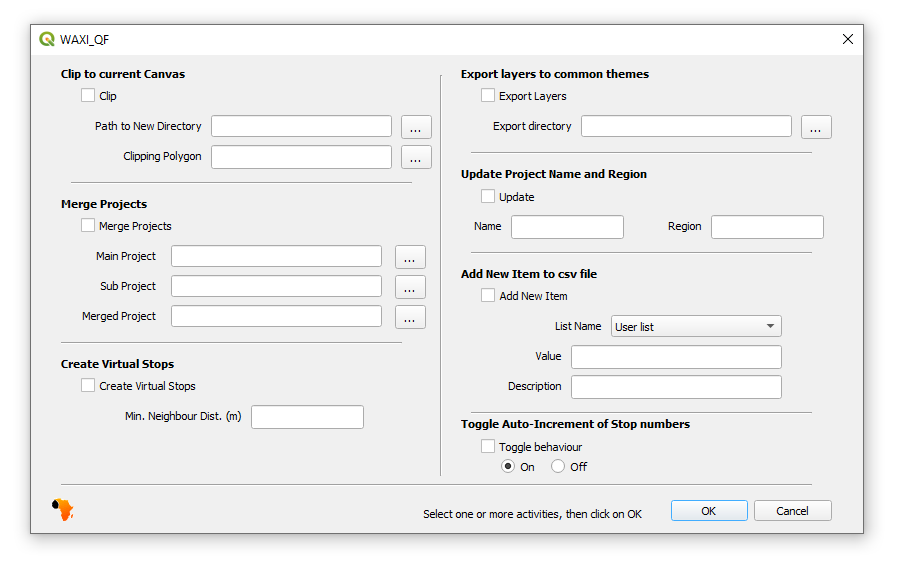
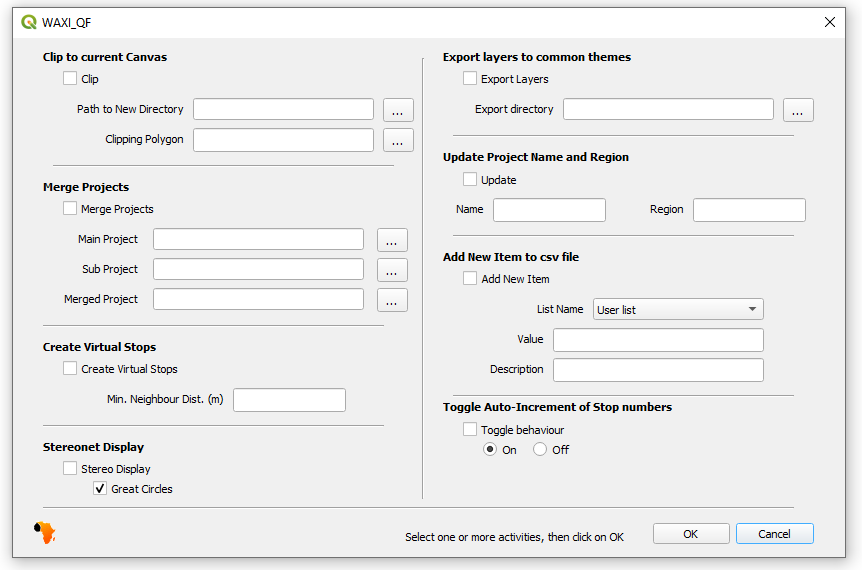
Add Stereonet control

Changed region(s): [[0.0, 0.0, 0.9954, 1.0]]

diff --git a/WAXI_QF.py b/WAXI_QF.py
@@ -368,54 +368,57 @@ class WAXI_QF:
         Inches 	9        Inches (since QGIS 3.32)
         SIP_MONKEYPATCH_COMPAT_NAME 10        Unknown distance unit.
         """
-        X=np.array(points)
-        X[0]=(X[0]-X[:,0].mean())/X[:,0].std()
-        X[1]=(X[1]-X[:,1].mean())/X[:,1].std()
-        #X = StandardScaler().fit_transform(X)
+        if(len(points)>0):
+            X=np.array(points)
+            X[0]=(X[0]-X[:,0].mean())/X[:,0].std()
+            X[1]=(X[1]-X[:,1].mean())/X[:,1].std()
+            #X = StandardScaler().fit_transform(X)
 
 
-        clusters = scanner.fit_predict(X)
-        #print(clusters)
-        
+            clusters = scanner.fit_predict(X)
+            #print(clusters)
+            
 
-        merged_layers.startEditing()
-        if merged_layers.dataProvider().fieldNameIndex("v_stop") == -1:
-            merged_layers.dataProvider().addAttributes([QgsField("v_stop", QVariant.String)])
-            merged_layers.updateFields()
+            merged_layers.startEditing()
+            if merged_layers.dataProvider().fieldNameIndex("v_stop") == -1:
+                merged_layers.dataProvider().addAttributes([QgsField("v_stop", QVariant.String)])
+                merged_layers.updateFields()
 
-        id_new_col= merged_layers.dataProvider().fieldNameIndex("v_stop")
+            id_new_col= merged_layers.dataProvider().fieldNameIndex("v_stop")
 
-        for i,feature in enumerate(merged_layers.getFeatures()):
-            if(clusters[i]>0):
-                merged_layers.changeAttributeValue(feature.id(), id_new_col, str(clusters[i]))
+            for i,feature in enumerate(merged_layers.getFeatures()):
+                if(clusters[i]>0):
+                    merged_layers.changeAttributeValue(feature.id(), id_new_col, str(clusters[i]))
 
-        merged_layers.commitChanges()
-        if not merged_layers.isValid():
-            print("Layer failed to build!")
-        else:
-            QgsProject.instance().addMapLayer(merged_layers,False)
-            options = QgsVectorFileWriter.SaveVectorOptions()
-            options.driverName = "ESRI Shapefile"
-            #options.actionOnExistingFile = QgsVectorFileWriter.CreateOrOverwriteLayer
-            options.fileEncoding="UTF8"
-
-            output_path = QgsProject.instance().readPath("./")
-            virtual_path = self.mynormpath(output_path+"/0. FIELD DATA/0. CURRENT MISSION/0. STOPS-SAMPLING-PHOTOGRAPHS-COMMENTS/Virtual_Stops_"+datetime.now().strftime('%d-%b-%Y_%H_%M_%S')+".shp" ) # Path to clip rectangle in memory
-            writer = QgsVectorFileWriter.writeAsVectorFormatV3 (merged_layers,virtual_path, QgsProject.instance().transformContext(), options )
-
-            if writer[0] != QgsVectorFileWriter.NoError:
-                print("Error occurred while creating shapefile:", writer.errorMessage())
-            """
+            merged_layers.commitChanges()
+            if not merged_layers.isValid():
+                print("Layer failed to build!")
             else:
-                # Write features to the shapefile
-                for feature in layer.getFeatures():
-                    writer.addFeature(feature)
+                QgsProject.instance().addMapLayer(merged_layers,False)
+                options = QgsVectorFileWriter.SaveVectorOptions()
+                options.driverName = "ESRI Shapefile"
+                #options.actionOnExistingFile = QgsVectorFileWriter.CreateOrOverwriteLayer
+                options.fileEncoding="UTF8"
 
-                # Finish writing and close the shapefile
-            """
-            del writer
-            self.iface.addVectorLayer(virtual_path, '', 'ogr')
-            self.iface.messageBar().pushMessage("Virtual Stop layer created", level=Qgis.Success, duration=5)
+                output_path = QgsProject.instance().readPath("./")
+                virtual_path = self.mynormpath(output_path+"/0. FIELD DATA/0. CURRENT MISSION/0. STOPS-SAMPLING-PHOTOGRAPHS-COMMENTS/Virtual_Stops_"+datetime.now().strftime('%d-%b-%Y_%H_%M_%S')+".shp" ) # Path to clip rectangle in memory
+                writer = QgsVectorFileWriter.writeAsVectorFormatV3 (merged_layers,virtual_path, QgsProject.instance().transformContext(), options )
+
+                if writer[0] != QgsVectorFileWriter.NoError:
+                    print("Error occurred while creating shapefile:", writer.errorMessage())
+                """
+                else:
+                    # Write features to the shapefile
+                    for feature in layer.getFeatures():
+                        writer.addFeature(feature)
+
+                    # Finish writing and close the shapefile
+                """
+                del writer
+                self.iface.addVectorLayer(virtual_path, '', 'ogr')
+                self.iface.messageBar().pushMessage("Virtual Stop layer created", level=Qgis.Success, duration=5)
+        else:
+            self.iface.messageBar().pushMessage("No points found", level=Qgis.Warning, duration=45)
 
     def rmvLyr(lyrname):
         qinst = QgsProject.instance()
@@ -701,6 +704,11 @@ class WAXI_QF:
         filename = QFileDialog.getExistingDirectory(None, "Select Folder")
 
         self.dlg.lineEdit_3.setText(filename)
+    
+    def select_directory(self,widget,prompt):
+        filename = QFileDialog.getExistingDirectory(None, prompt)
+
+        widget.setText(filename)
 
     def select_main_directory(self):
         filename = QFileDialog.getExistingDirectory(None, "Select Main Project Folder")
@@ -727,6 +735,7 @@ class WAXI_QF:
         
         self.dlg.lineEdit_8.setText(filename)
 
+
     def toggleAutoInc(self):
         project = QgsProject.instance()
         proj_file_path=project.fileName()
@@ -747,7 +756,21 @@ class WAXI_QF:
         layer = project.mapLayersByName('Stops_PT')[0]
         layer.loadNamedStyle(head_tail[0]+"/0. FIELD DATA/0. CURRENT MISSION/0. STOPS-SAMPLING-PHOTOGRAPHS-COMMENTS/Stops_PT.qml")
         layer.triggerRepaint()
+        
+    def set_gtCircles(self):
+        
+        project = QgsProject.instance()
+        proj_file_path=project.fileName()
+        head_tail = os.path.split(proj_file_path)
 
+        gtCircles_flag_path = head_tail[0]+"/0. FIELD DATA/0. CURRENT MISSION/0. STOPS-SAMPLING-PHOTOGRAPHS-COMMENTS/gtCircles_flag.txt"
+
+        if(self.dlg.gtCircles_checkBox.isChecked()):
+            f = open(gtCircles_flag_path, "a+")
+            f.close()
+        else:
+            if(os.path.exists(gtCircles_flag_path)):
+                os.remove(gtCircles_flag_path)
 
     def unload(self):
         """Removes the plugin menu item and icon from QGIS GUI."""
@@ -781,6 +804,8 @@ class WAXI_QF:
         Virtualstop_tooltip = 'Combine all point layers to get virtual Stop IDS'
         Autoincrement_tooltip= 'Select the checkbox below and toggle autoincrementing of Stop Number behaviour when a new Stop is added'
 
+        gtCircles_tooltip= 'Select Checkbox to switch to Great Circle Display for Stereonet Plugin'
+
         self.dlg.label_4.setToolTip(Clip_tooltip)
         self.dlg.label_5.setToolTip(Add_item_tooltip)
         self.dlg.label_10.setToolTip(Export_tooltip)
@@ -788,6 +813,7 @@ class WAXI_QF:
         self.dlg.label_6.setToolTip(Merge_tooltip)
         self.dlg.label_18.setToolTip(Virtualstop_tooltip)
         self.dlg.label_19.setToolTip(Autoincrement_tooltip)
+        self.dlg.label_22.setToolTip(gtCircles_tooltip)
 
         self.dlg.radioButton.setToolTip(Auto_on)
         self.dlg.radioButton_2.setToolTip(Auto_off)
@@ -820,7 +846,9 @@ class WAXI_QF:
         self.dlg.lineEdit_11.setToolTip(Epsilon_tooltip)
 
 
-        self.dlg.comboBox.setToolTip(Csv_list_tooltip)
+        self.dlg.gtCircles_checkBox.setToolTip(gtCircles_tooltip)
+        self.dlg.stereonet_checkBox.setToolTip(gtCircles_tooltip)
+
 
 
     def run(self):
@@ -867,6 +895,10 @@ class WAXI_QF:
                     else:
                         self.dlg.radioButton.setChecked(True)
 
+                gtCircles_flag_path = head_tail[0]+"/0. FIELD DATA/0. CURRENT MISSION/0. STOPS-SAMPLING-PHOTOGRAPHS-COMMENTS/gtCircles_flag.txt"
+
+                if(os.path.exists(gtCircles_flag_path)):
+                    self.dlg.gtCircles_checkBox.setChecked(True)
 
 
                 self.define_tips()
@@ -881,16 +913,16 @@ class WAXI_QF:
             # See if OK was pressed
             if result:
 
-                if(self.dlg.lineEdit.text() and self.dlg.checkBox_2.isChecked()):
+                if(self.dlg.lineEdit.text() and self.dlg.csv_checkBox.isChecked()):
                     self.addCsvItem()
 
-                if(self.dlg.checkBox.isChecked()):
-                    if(os.path.exists(self.mynormpath(self.dlg.lineEdit_3.text()))):
+                if(self.dlg.clip_checkBox.isChecked()):
+                    if(os.path.exists(self.mynormpath(self.dlg.lineEdit.text()))):
                         self.clipToCanvas()
                     else:
                         self.iface.messageBar().pushMessage("Directory not found: "+self.dlg.lineEdit_3.text(), level=Qgis.Warning, duration=45)
 
-                if(self.dlg.checkBox_3.isChecked()):
+                if(self.dlg.merge_checkBox.isChecked()):
                     if(os.path.exists(self.mynormpath(self.dlg.lineEdit_4.text())) and 
                     os.path.exists(self.mynormpath(self.dlg.lineEdit_5.text())) and 
                     os.path.exists(self.mynormpath(self.dlg.lineEdit_6.text()))):
@@ -898,23 +930,25 @@ class WAXI_QF:
                     else:
                         self.iface.messageBar().pushMessage("Directory not found", level=Qgis.Warning, duration=45)  
 
-                if(self.dlg.checkBox_4.isChecked()):
+                if(self.dlg.export_checkBox.isChecked()):
                     if(os.path.exists(self.mynormpath(self.dlg.lineEdit_7.text()))):
                         self.exportLayers()
                     else:
                         self.iface.messageBar().pushMessage("Directory not found: "+self.dlg.lineEdit_7.text(), level=Qgis.Warning, duration=45)
 
-                if(self.dlg.checkBox_5.isChecked()):
+                if(self.dlg.projName_checkBox.isChecked()):
                     if(self.dlg.lineEdit_9.text() and self.dlg.lineEdit_10.text()):
                         self.updateProjectTitle()
 
-                if(self.dlg.checkBox_6.isChecked()):
+                if(self.dlg.virtual_checkBox.isChecked()):
                     if(self.dlg.lineEdit_11.text()):
                         self.virtualStops(self.dlg.lineEdit_11.text())
 
-                if(self.dlg.checkBox_7.isChecked()):
+                if(self.dlg.autoinc_checkBox.isChecked()):
                     self.toggleAutoInc()
 
+                if(self.dlg.stereonet_checkBox.isChecked()):
+                    self.set_gtCircles()
             else:
                 self.dlg.lineEdit.setText("") 
                 self.dlg.lineEdit_2.setText("") 
@@ -927,10 +961,13 @@ class WAXI_QF:
                 self.dlg.lineEdit_9.setText("") 
                 self.dlg.lineEdit_10.setText("") 
                 self.dlg.lineEdit_11.setText("") 
-                self.dlg.checkBox.setChecked(False)
-                self.dlg.checkBox_2.setChecked(False)
-                self.dlg.checkBox_3.setChecked(False)
-                self.dlg.checkBox_4.setChecked(False)
-                self.dlg.checkBox_5.setChecked(False)
-                self.dlg.checkBox_6.setChecked(False)
+                self.dlg.clip_checkBox.setChecked(False)
+                self.dlg.autoinc_checkBox.setChecked(False)
+                self.dlg.clip_checkBox.setChecked(False)
+                self.dlg.csv_checkBox.setChecked(False)
+                self.dlg.export_checkBox.setChecked(False)
+                self.dlg.merge_checkBox.setChecked(False)
+                self.dlg.projName_checkBox.setChecked(False)
+                self.dlg.virtual_checkBox.setChecked(False)
+                self.dlg.stereonet_checkBox.setChecked(False)
             

diff --git a/README.md b/README.md
@@ -18,7 +18,8 @@ Save repository to disk as a zip file. Use QGIS Plugin Manager to load directly 
 6. **Export layers to common themes**: Select checkbox and define directory to export all point, polygon and polyline which are combined to three  shapefiles for zones, structures and lithologies. 
 7. **Update the Project name**: Select checkbox to update the project name and field region for a new field campaign.
 8. **Toggle Auto-Increment of Stop numbers**: Select checkbox and toggle Stop Number autoincrementing behaviour when a new stop is defined. 
-9. **Click on OK** to perform any or all of the above actions.
+9. **Stereonet Control**: Select Stereonet checkbox to ccontrol Stereonet plugin display.   
+10. **Click on OK** to perform any or all of the above actions.
 
 ## Roadmap
 
